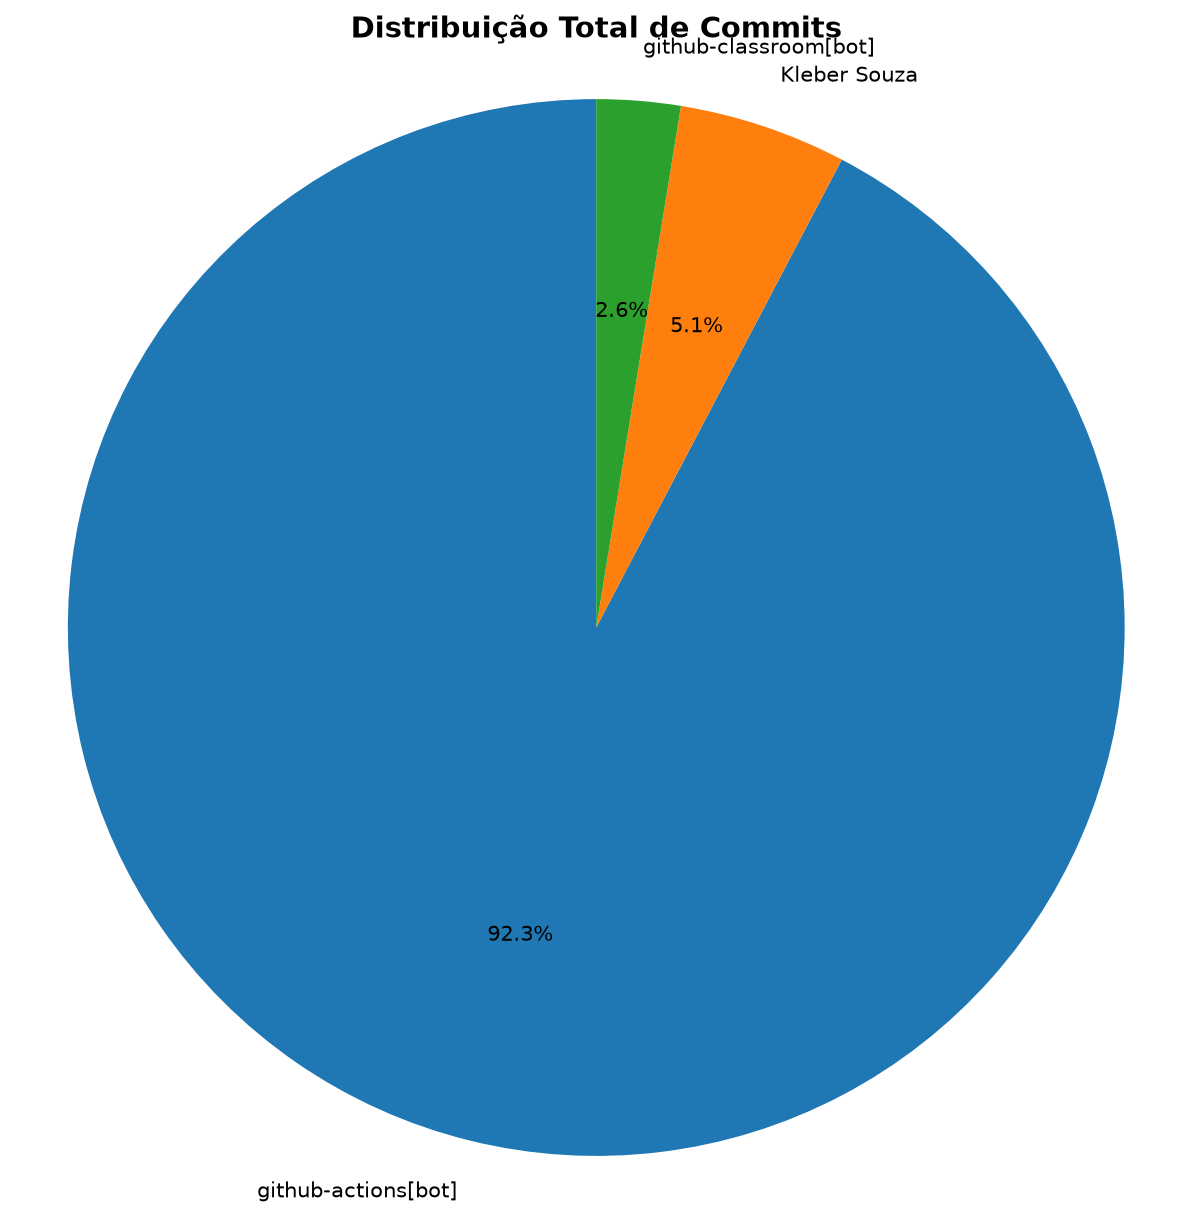
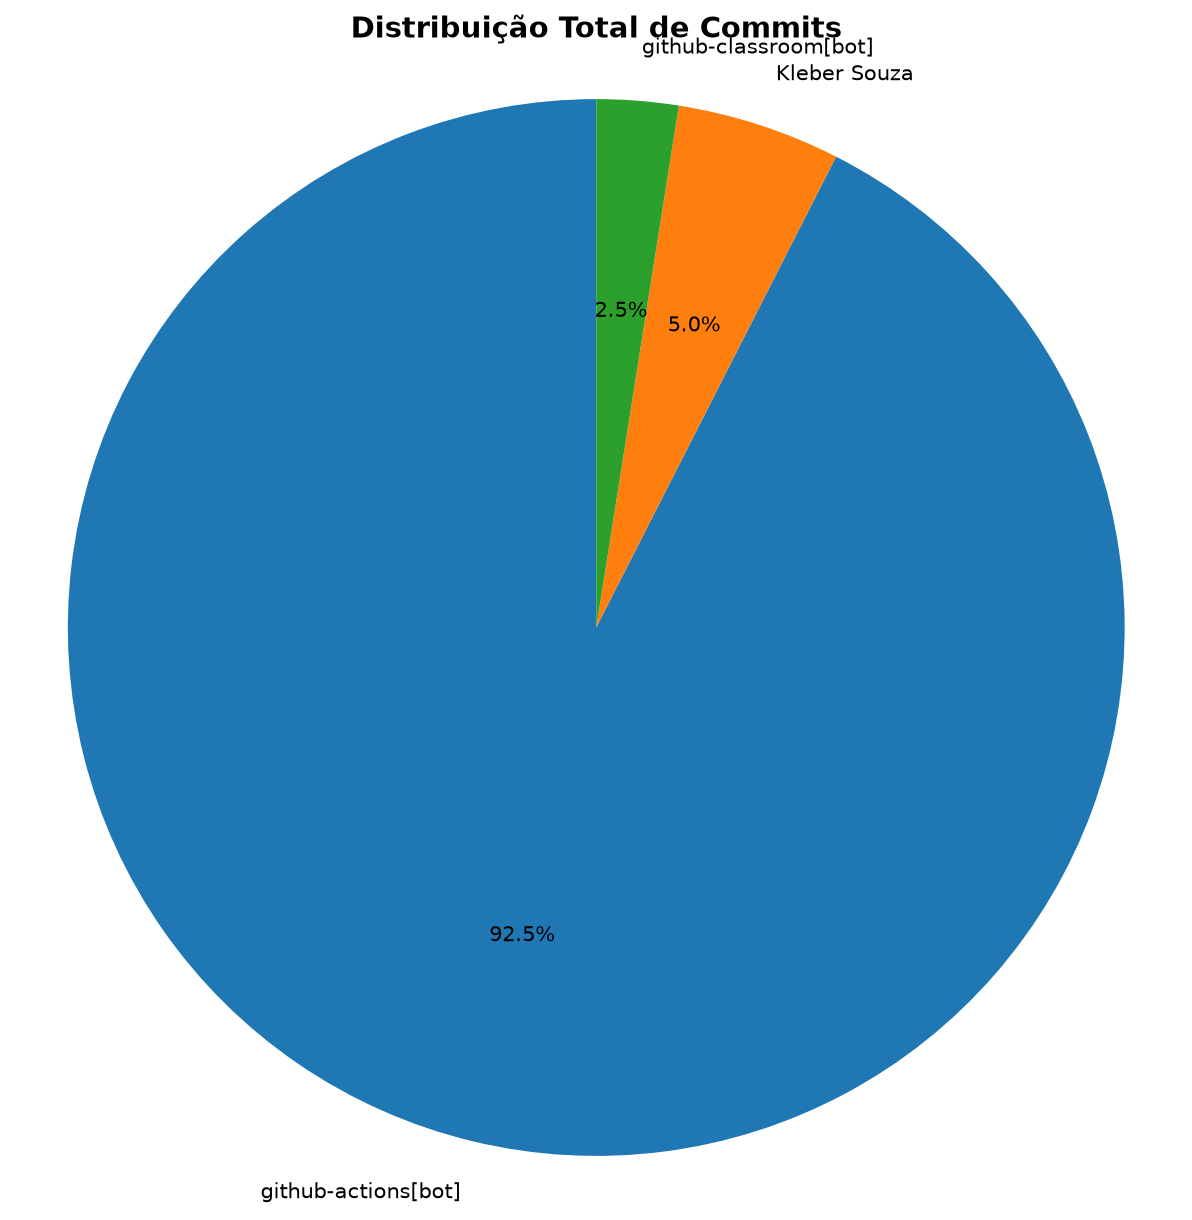
📊 Atualizar relatório de contribuições [skip ci]

diff --git a/docs/CONTRIBUTION_REPORT.md b/docs/CONTRIBUTION_REPORT.md
@@ -1,6 +1,6 @@
 # 📊 Relatório de Contribuições do Projeto
 
-**Última atualização:** 05/10/2026 05:13
+**Última atualização:** 12/10/2026 05:34
 
 ---
 
@@ -9,11 +9,13 @@
 | Aluno                 |   Commits |   Linhas+ |   Linhas- |   Arquivos |   Docs Commits |   Docs Arquivos |
 |-----------------------|-----------|-----------|-----------|------------|----------------|-----------------|
 | Kleber Souza          |         2 |         2 |         2 |          2 |              2 |               2 |
-| github-actions[bot]   |        36 |       185 |       160 |          3 |             36 |               1 |
+| github-actions[bot]   |        37 |       198 |       167 |          3 |             37 |               1 |
 | github-classroom[bot] |         1 |      2291 |         0 |         45 |              1 |              13 |
 
 
 ## 📅 Contribuições Semanais (Todo o Semestre)
+
+**2026-09-28**: github-actions[bot]: 1
 
 **2026-09-21**: github-actions[bot]: 1
 
@@ -58,8 +60,6 @@
 **2026-05-04**: github-actions[bot]: 1
 
 **2026-04-27**: github-actions[bot]: 1
-
-**2026-04-20**: github-actions[bot]: 1
 
 
 
